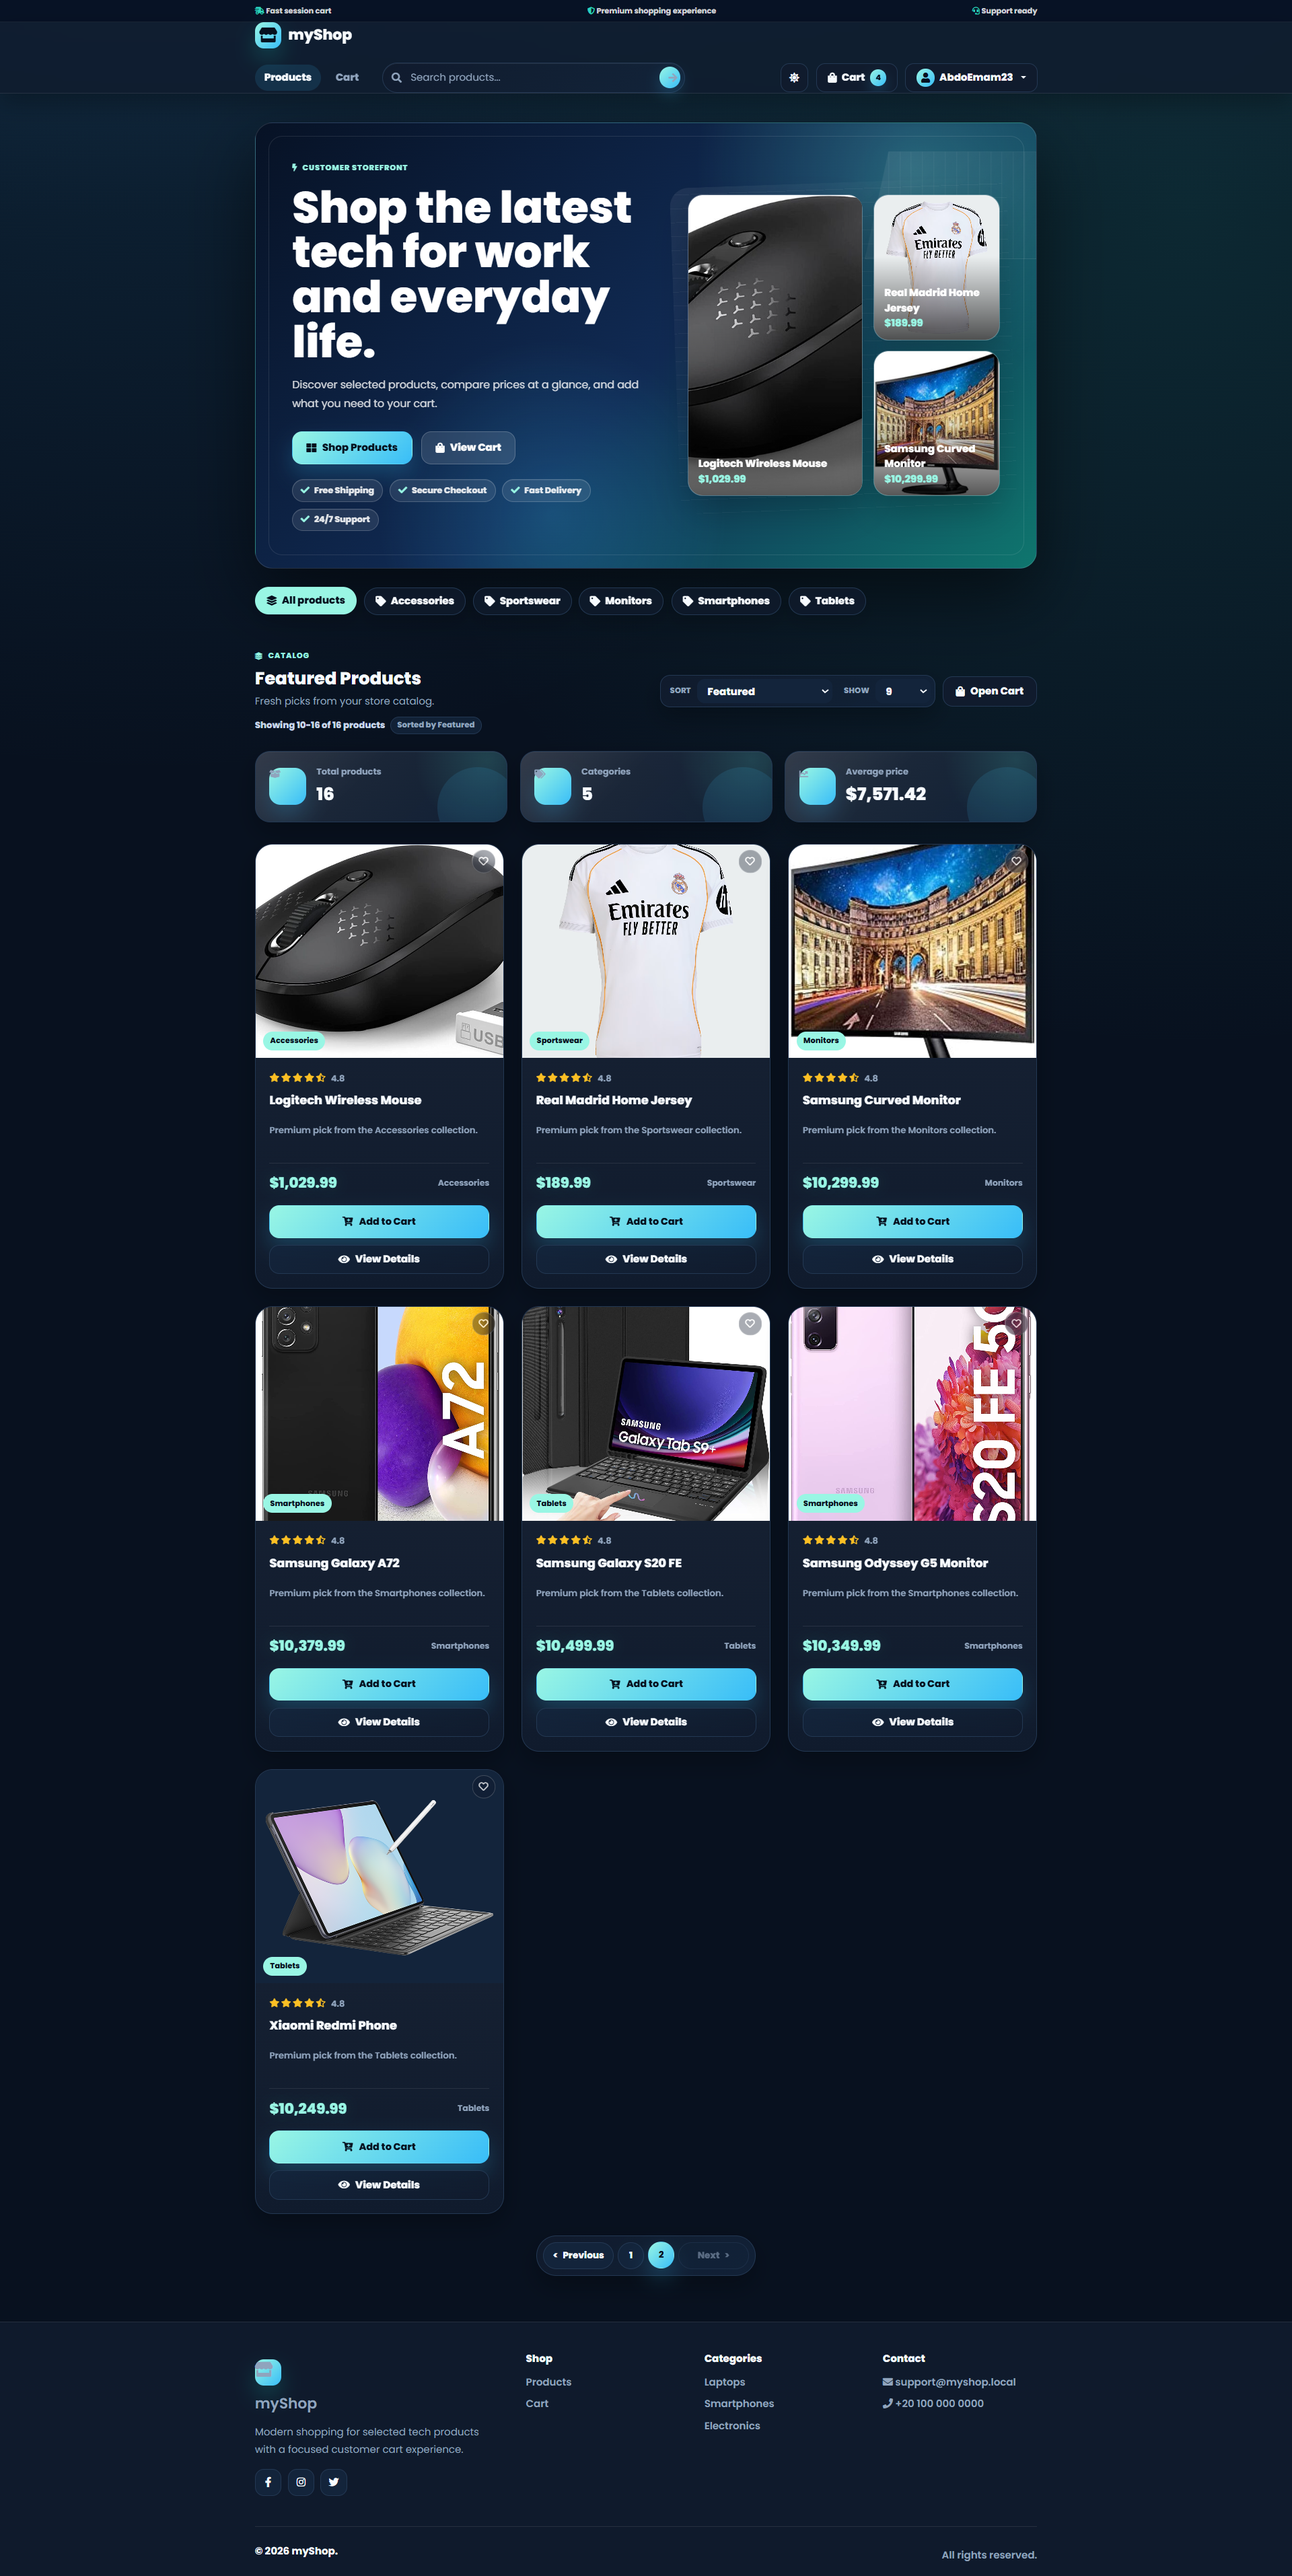
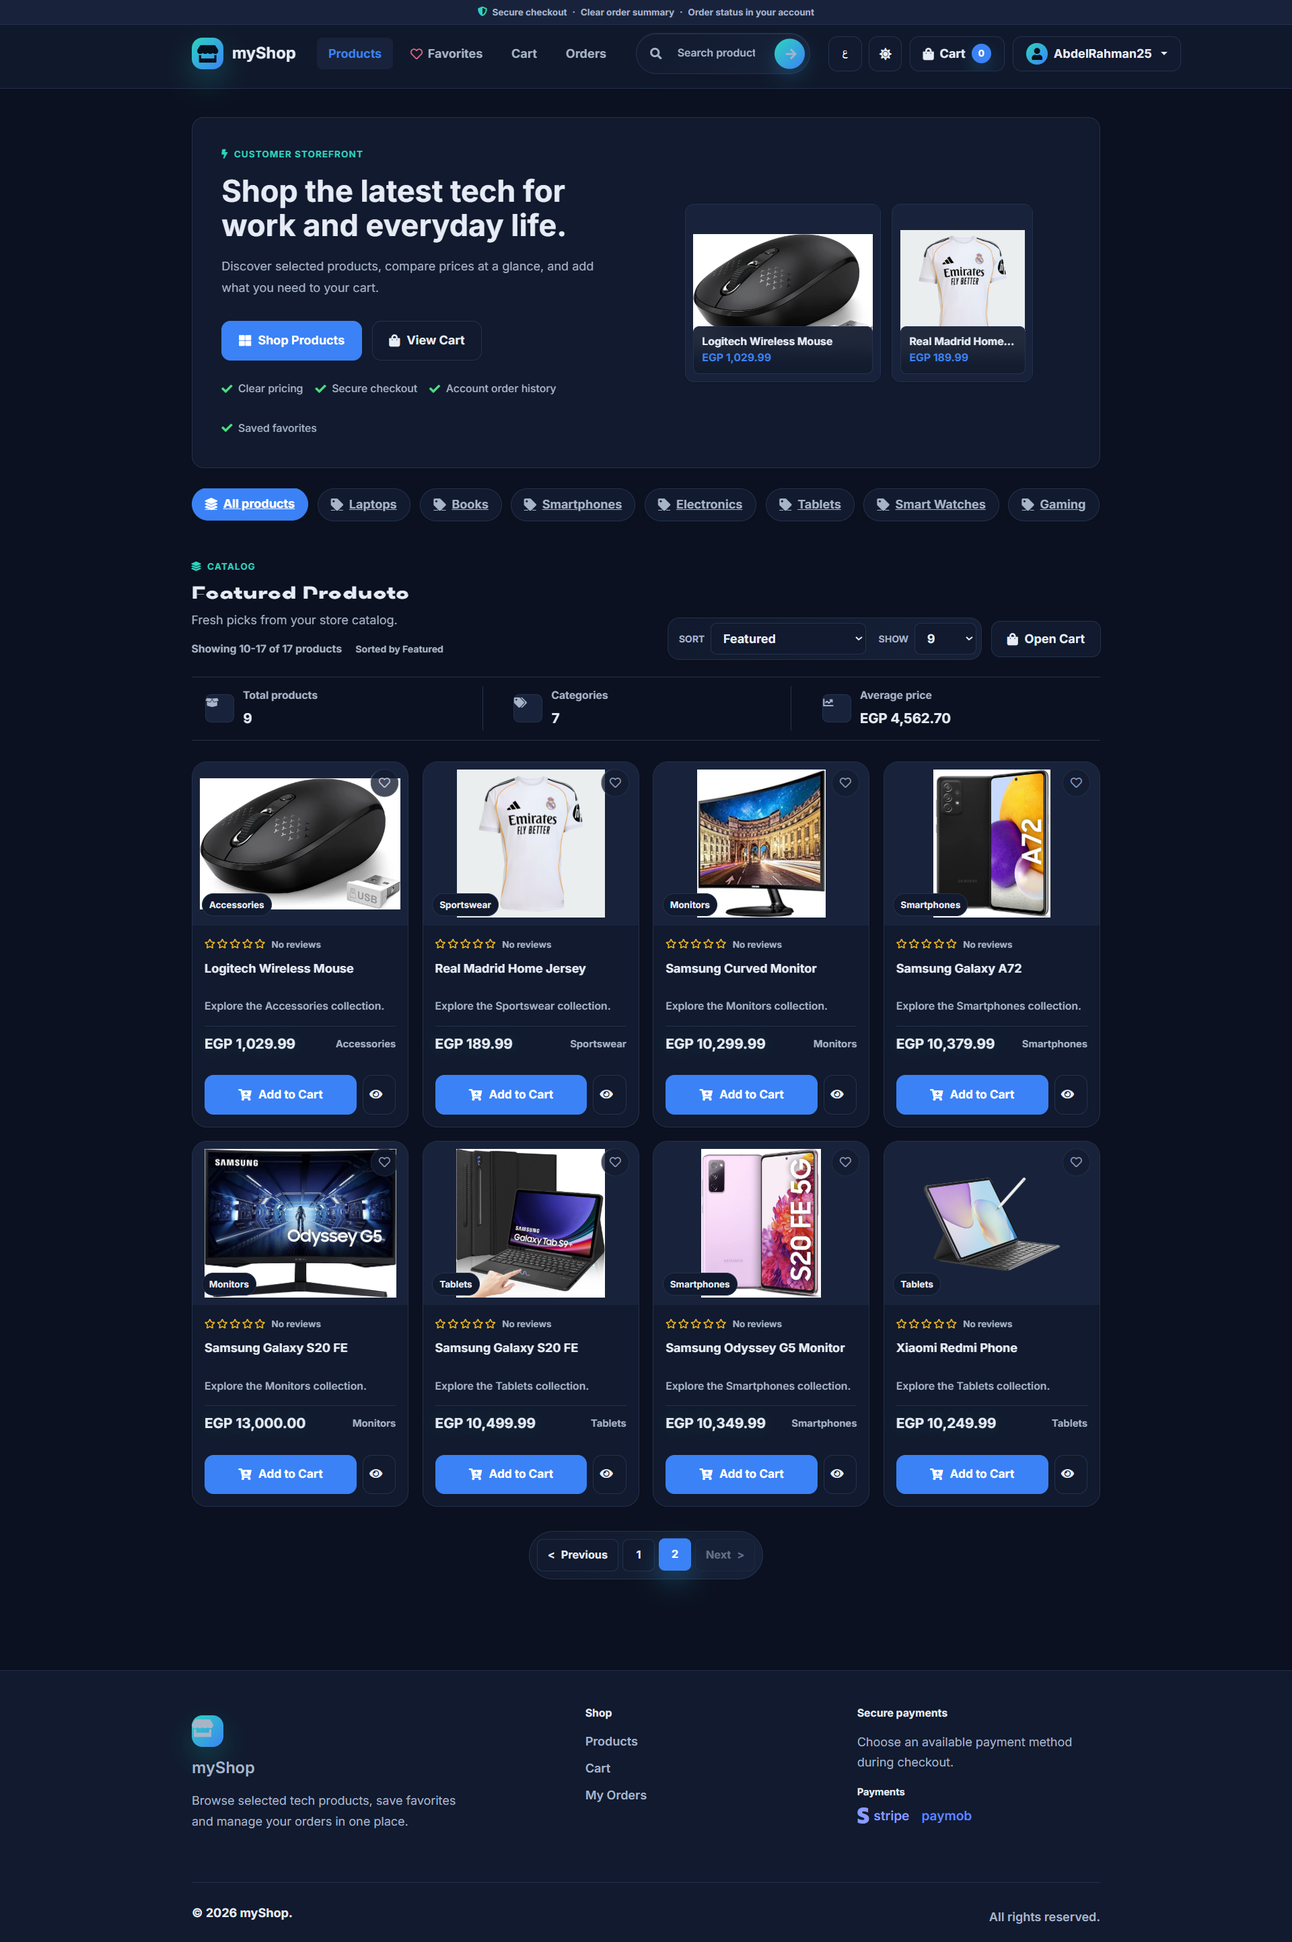
Refresh README screenshots and project image gallery

diff --git a/README.md b/README.md
@@ -14,10 +14,12 @@ The project includes a complete **Admin Dashboard** for managing the store and a
 * Product Catalog
 * Product Details
 * Shopping Cart
+* Customer Favorites
 * Product Search
 * Product Sorting
 * Server-Side Pagination
 * Dark & Light Theme
+* Arabic and English interface support
 * Session-Based Cart
 
 ---
@@ -53,15 +55,16 @@ The project includes a complete **Admin Dashboard** for managing the store and a
 * Order Items Management
 * Order Confirmation
 * Customer Order Workflow
+* Customer-facing fulfillment stages and store-provided delivery details
 
 ---
 
 ## 💳 Payment
 
 * Stripe Payment Integration
+* Paymob Payment Integration (EGP)
 * Secure Checkout Payment Flow
-* Payment Processing through Stripe
-* Payment Status Handling
+* Server-verified payment status and webhook handling
 * Integration with Order Checkout
 
 ---
@@ -160,6 +163,7 @@ The project includes a complete **Admin Dashboard** for managing the store and a
 * Memory Cache
 * Session
 * Stripe
+* Paymob
 * Repository Pattern
 * Unit Of Work
 * Specification Pattern
@@ -260,6 +264,22 @@ Example:
 
 > ⚠ Do not commit your real Stripe Secret Key to GitHub. Use **User Secrets** or environment variables for production environments.
 
+## Configure Paymob
+
+Set the Paymob values through **User Secrets** for local development or environment variables on the hosting provider. Do not commit live keys or HMAC secrets.
+
+Required settings:
+
+```text
+Paymob:SecretKey
+Paymob:PublicKey
+Paymob:IntegrationId
+Paymob:HmacSecret
+Paymob:CallbackBaseUrl
+```
+
+`Paymob:CallbackBaseUrl` must be a public HTTPS base URL so Paymob can reach the payment notification endpoint. Payment is confirmed from the verified webhook; the browser redirect alone does not mark an order as paid.
+
 ---
 
 ## Run the Project
@@ -299,6 +319,7 @@ See [`tests/README.md`](tests/README.md) for the test layout and contribution gu
 * ✅ Authentication
 * ✅ Authorization
 * ✅ Shopping Cart
+* ✅ Customer Favorites
 * ✅ Product Search
 * ✅ Product Sorting
 * ✅ Server-Side Pagination
@@ -308,6 +329,8 @@ See [`tests/README.md`](tests/README.md) for the test layout and contribution gu
 * ✅ Orders
 * ✅ Checkout
 * ✅ Stripe Payment Integration
+* ✅ Paymob Payment Integration
+* ✅ Customer order and delivery progress
 * ✅ Order Confirmation Email
 * ✅ Product Reviews & Ratings
 * ✅ SQL Server Database Backup
@@ -316,117 +339,63 @@ See [`tests/README.md`](tests/README.md) for the test layout and contribution gu
 
 # 📸 Screenshots
 
+The screenshots below show the current customer storefront and admin workflows. They are linked to the image files in the [`Images`](Images) folder.
+
 ## 🛍 Customer Store
 
-### Customer Home (Light)
+| Home — Light | Home — Dark |
+| --- | --- |
+| <img src="Images/CustomerHomeLight.png" alt="Customer storefront in light mode" width="460"> | <img src="Images/CustomerHomeDark.png" alt="Customer storefront in dark mode" width="460"> |
 
-![Customer Home Light](Images/CustomerHomeLight.png)
+| Home — Dark variant | Product search |
+| --- | --- |
+| <img src="Images/CustomerHomeDark2.png" alt="Customer storefront dark mode variant" width="460"> | <img src="Images/SearchProduct.png" alt="Customer product search" width="460"> |
 
----
+| Shopping cart | Checkout |
+| --- | --- |
+| <img src="Images/ShoppingCart.png" alt="Customer shopping cart" width="460"> | <img src="Images/Checkout.png" alt="Customer checkout and payment selection" width="460"> |
 
-### Customer Home (Dark)
+| Pay securely with Stripe | Pay securely with Paymob |
+| --- | --- |
+| <img src="Images/Pay%20securely%20with%20Stripe.png" alt="Stripe payment experience" width="460"> | <img src="Images/Pay%20securely%20with%20Paymob.png" alt="Paymob payment experience" width="460"> |
 
-![Customer Home Dark](Images/CustomerHomeDark.png)
+| Payment confirmed | My orders |
+| --- | --- |
+| <img src="Images/Payment%20confirmed.png" alt="Payment confirmation page" width="460"> | <img src="Images/My%20Orders.png" alt="Customer order history and delivery progress" width="460"> |
 
----
+| Delivery information | Product reviews |
+| --- | --- |
+| <img src="Images/Delivery%20Information.png" alt="Customer delivery information" width="460"> | <img src="Images/Product%20Reviews.png" alt="Product reviews and ratings" width="460"> |
 
-### Customer Home (Dark Variant)
+| Login | Register |
+| --- | --- |
+| <img src="Images/Login.png" alt="Customer login page" width="460"> | <img src="Images/Register.png" alt="Customer registration page" width="460"> |
 
-![Customer Home Dark 2](Images/CustomerHomeDark2.png)
+| Arabic translation |
+| --- |
+| <img src="Images/Translate%20into%20Arabic.png" alt="Storefront translated into Arabic" width="460"> |
 
----
+## 🛠 Admin Dashboard
 
-### Product Search
+| Admin home — Dark | Admin home — Light |
+| --- | --- |
+| <img src="Images/AdminHomeDark.png" alt="Admin dashboard in dark mode" width="460"> | <img src="Images/AdminHomeLight.png" alt="Admin dashboard in light mode" width="460"> |
 
-![Product Search](Images/SearchProduct.png)
+| Add a product | Edit products |
+| --- | --- |
+| <img src="Images/Adding%20a%20product%20from%20the%20Admin%20panel.png" alt="Adding a product from the admin panel" width="460"> | <img src="Images/Edit%20Products.png" alt="Admin product editing page" width="460"> |
 
----
+| Categories | Users |
+| --- | --- |
+| <img src="Images/Display%20categories.png" alt="Admin category management" width="460"> | <img src="Images/Display%20Users.png" alt="Admin user management" width="460"> |
 
-### Product Details
+| Create a role | Manage roles |
+| --- | --- |
+| <img src="Images/Create%20Role.png" alt="Creating an admin role" width="460"> | <img src="Images/Manage%20Role.png" alt="Managing user roles" width="460"> |
 
-![Product Details](Images/ProductDetailsDark.png)
-
----
-
-### Shopping Cart
-
-![Shopping Cart](Images/ShoppingCart.png)
-
----
-
-### Checkout
-
-![Checkout](Images/Checkout.png)
-
----
-
-### Product Reviews
-
-![Product Reviews](Images/Product%20Reviews.png)
-
----
-
-## 📦 Products
-
-### Product List
-
-![Product List](Images/Dispaly%20Products.png)
-
----
-
-### Create Product
-
-![Create Product](Images/Create%20Products.png)
-
----
-
-### Edit Product
-
-![Edit Product](Images/Edit%20Products.png)
-
----
-
-## 📂 Categories
-
-### Category List
-
-![Category List](Images/Display%20categories.png)
-
----
-
-### Create Category
-
-![Create Category](Images/Create%20Categories.png)
-
----
-
-## 🔐 Roles
-
-### Display Roles
-
-![Display Roles](Images/Display%20Roles.png)
-
----
-
-### Create Role
-
-![Create Role](Images/Create%20Roles.png)
-
----
-
-### Edit User Role
-
-![Edit User Role](Images/Edit%20Roles%20\(Select%20User\).png)
-
----
-
-## 👥 Users
-
-### Display Users
-
-![Display Users](Images/Display%20Users.png)
-
----
+| Order management | Fulfillment and delivery |
+| --- | --- |
+| <img src="Images/Order%20Management.png" alt="Admin order management" width="460"> | <img src="Images/Fulfillment%20and%20delivery.png" alt="Admin fulfillment and delivery workflow" width="460"> |
 
 ## Storefront release setup
 
@@ -458,7 +427,8 @@ See [`tests/README.md`](tests/README.md) for the test layout and contribution gu
 * Shopping Cart is implemented using **ASP.NET Core Session**.
 * Authentication and Authorization are powered by **ASP.NET Core Identity**.
 * Orders and Checkout are integrated into the customer purchasing workflow.
-* Payments are processed through **Stripe**.
+* Payments are supported through **Stripe** and **Paymob**.
+* Customers can view order fulfillment progress and delivery details entered by the store.
 * Product Reviews and Ratings are supported for products.
 * Order confirmation emails are sent through the email integration.
 * A SQL Server backup (`Database/MyShop.bak`) is included for quick project setup.
